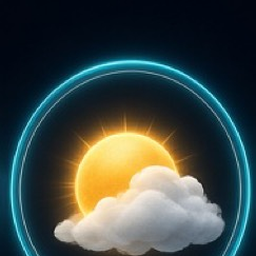
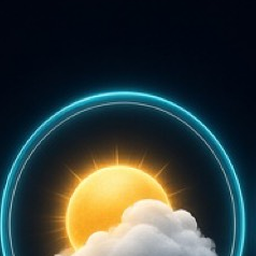
Add files via upload

diff --git a/style.css b/style.css
@@ -1,4 +1,4 @@
-/* Fishing Dashboard v26.0.0 — final locked visuals */
+/* Fishing Dashboard v26.1.0 — final locked visuals */
 :root{
   --bg:#020b18;--cyan:#35c8ff;--gold:#f0c14a;--green:#3dde7a;--orange:#ff9a3c;--red:#ff5a5a;
   --text:#e8f4ff;--muted:#8aa4bc;--line:rgba(53,200,255,.38);--radius:16px;
@@ -7,18 +7,18 @@
 html,body{height:100%;background:var(--bg);color:var(--text);overflow-x:hidden;
   font-family:-apple-system,BlinkMacSystemFont,"Segoe UI",Roboto,Helvetica,Arial,sans-serif}
 .app{max-width:480px;margin:0 auto;min-height:100%;display:flex;flex-direction:column;overflow-x:hidden;width:100%}
-.header{display:flex;align-items:center;gap:2px;padding:8px 6px 4px;position:sticky;top:0;z-index:20;
+.header{display:flex;align-items:center;gap:0;padding:6px 4px 4px;position:sticky;top:0;z-index:20;
   background:linear-gradient(180deg,rgba(2,11,24,.98),rgba(2,11,24,.9));backdrop-filter:blur(12px)}
 .icon-btn{width:32px;height:32px;border-radius:10px;border:1px solid var(--line);background:rgba(8,28,48,.85);
-  color:var(--cyan);font-size:14px;display:grid;place-items:center;flex-shrink:0;cursor:pointer}
-.brand{flex:1;display:flex;align-items:center;justify-content:center;gap:0;min-width:0;padding:0}
-.brand-fish{width:58px;height:38px;object-fit:contain;flex-shrink:0;margin:0 -2px;
-  filter:drop-shadow(0 0 8px rgba(53,200,255,.55))}
-.brand-text{text-align:center;padding:0 2px;min-width:0}
+  color:var(--cyan);font-size:14px;display:grid;place-items:center;flex-shrink:0;cursor:pointer;margin:0}
+.brand{flex:1 1 auto;display:flex;align-items:center;justify-content:center;gap:0;min-width:0;padding:0;margin:0}
+.brand-fish{width:78px;height:48px;object-fit:contain;flex-shrink:0;margin:0;
+  filter:drop-shadow(0 0 10px rgba(53,200,255,.6))}
+.brand-text{text-align:center;padding:0 1px;min-width:0;margin:0}
 .brand-title{font-size:11px;font-weight:800;letter-spacing:0;white-space:nowrap}
 .brand-title .w2{color:var(--cyan)}
-.brand-loc{font-size:8px;color:var(--muted);margin-top:1px}
-.header-actions{display:flex;gap:3px;flex-shrink:0}
+.brand-loc{font-size:8px;color:var(--muted);margin-top:0}
+.header-actions{display:flex;gap:2px;flex-shrink:0;margin:0;padding:0}
 .main{flex:1;overflow-y:auto;overflow-x:hidden;padding:6px 10px 90px;display:flex;flex-direction:column;gap:10px;-webkit-overflow-scrolling:touch}
 .card{background:linear-gradient(165deg,rgba(12,36,62,.94),rgba(4,14,28,.97));
   border:1px solid rgba(80,180,240,.48);border-radius:var(--radius);padding:12px;width:100%;max-width:100%;
@@ -33,7 +33,7 @@ html,body{height:100%;background:var(--bg);color:var(--text);overflow-x:hidden;
 .row-2{grid-template-columns:1fr 1fr;align-items:stretch}
 .row-sea .card{min-height:150px}
 .row-moon{grid-template-columns:1.1fr 1fr;align-items:stretch}
-.row-score{grid-template-columns:1fr 1.2fr;align-items:start}
+.row-score{grid-template-columns:1fr 1.15fr;align-items:start;gap:8px}
 .row-2 .card,.row-moon .card,.row-score .card{min-height:100%;display:flex;flex-direction:column}
 @media(max-width:400px){.row-2,.row-moon,.row-score{grid-template-columns:1fr}}
 .h-scroll{display:flex;gap:8px;overflow-x:auto;overflow-y:hidden;padding-bottom:4px;-webkit-overflow-scrolling:touch;scrollbar-width:none}
@@ -69,7 +69,7 @@ html,body{height:100%;background:var(--bg);color:var(--text);overflow-x:hidden;
 /* Weather premium circular icons */
 .wh-cell{flex:0 0 74px;background:rgba(6,22,40,.92);border:1px solid rgba(53,200,255,.28);
   border-radius:14px;padding:8px 6px;text-align:center;display:flex;flex-direction:column;align-items:center;gap:3px}
-.wh-ico{width:48px;height:48px;border-radius:50%;object-fit:contain;display:block;
+.wh-ico{width:48px;height:48px;border-radius:50%;object-fit:cover;object-position:center;display:block;margin:0 auto;
   filter:drop-shadow(0 0 8px rgba(53,200,255,.35))}
 .wh-cell time{font-size:10px;color:var(--muted)}
 .wh-cell .lab{font-size:9px;color:var(--text);line-height:1.15;max-width:100%;overflow:hidden;text-overflow:ellipsis;white-space:nowrap}
@@ -127,10 +127,9 @@ html,body{height:100%;background:var(--bg);color:var(--text);overflow-x:hidden;
 .best-line .sep{color:rgba(240,193,74,.45)}
 
 /* Score */
-.score-card{padding:8px 6px 6px}
+.score-card{padding:6px 4px 4px}
 .score-wrap{flex:0 0 auto;display:block;min-height:0;padding:0;margin:0}
-.score-img{width:100%;max-width:100%;height:auto;object-fit:contain;display:block;margin:0;
-  filter:none;border-radius:10px}
+.score-img{width:100%;height:auto;object-fit:contain;display:block;margin:0;padding:0;border:none;border-radius:8px;filter:none}
 
 /* Activity — single frame, contain */
 .activity-card{padding:10px 8px 8px}

diff --git a/index.html b/index.html
@@ -8,7 +8,7 @@
   <meta name="apple-mobile-web-app-status-bar-style" content="black-translucent"/>
   <title>Fishing Dashboard — Κάλυμνος</title>
   <link rel="manifest" href="manifest.json"/>
-  <link rel="stylesheet" href="style.css?v=26.0.0"/>
+  <link rel="stylesheet" href="style.css?v=26.1.0"/>
 </head>
 <body>
 <div class="app">
@@ -184,6 +184,6 @@
     <button class="nav-item" data-nav="settings" type="button"><span>⚙</span>ΡΥΘΜΙΣΕΙΣ</button>
   </nav>
 </div>
-<script src="app.js?v=26.0.0"></script>
+<script src="app.js?v=26.1.0"></script>
 </body>
 </html>

diff --git a/app.js b/app.js
@@ -1,4 +1,4 @@
-/* Fishing Dashboard v26.0.0 — final locked visuals */
+/* Fishing Dashboard v26.1.0 — final locked visuals */
 (function () {
   "use strict";
 
